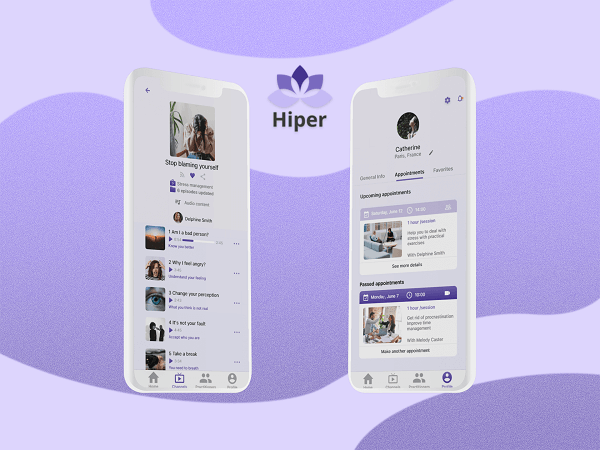
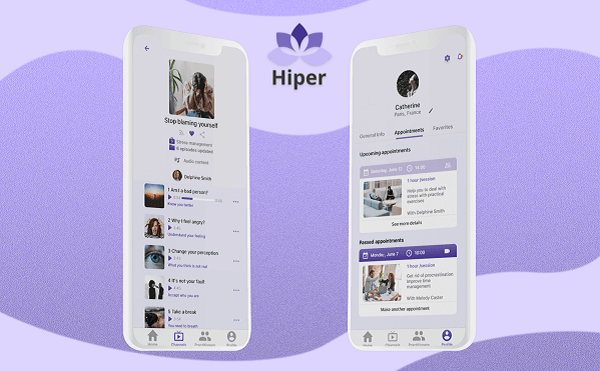
Changed a few photos and the theme color

Changed region(s): [[0.0, 0.0, 1.0, 1.0], [0.39, 0.504, 0.42, 0.5633]]

diff --git a/index.html b/index.html
@@ -97,8 +97,8 @@
           <div class="col-md-6">
             <!-- open first column (used for image) -->
             <picture>
-              <source srcset="img/realestatemate/realEstateMate@1.png" media="(max-width:767px)">
-              <img src="img/realestatemate/realEstateMate@2.png" alt="My Image">
+              <source srcset="img/realestatemate/realEstateMate@1.jpg" media="(max-width:767px)">
+              <img src="img/realestatemate/realEstateMate@2.jpg" alt="My Image">
             </picture>
           </div><!-- end first column -->
           <div class="col-md-6">

diff --git a/realestatemate.html b/realestatemate.html
@@ -49,8 +49,8 @@
     <div class="projects cover">
       <!-- open first column (used for image) -->
       <picture>
-        <source srcset="img/realestatemate/realEstateMate@1.png" media="(max-width:767px)">
-        <img src="img/realestatemate/realEstateMate@2.png" alt="realestatemate Mockup">
+        <source srcset="img/realestatemate/realEstateMate@1.jpg" media="(max-width:767px)">
+        <img src="img/realestatemate/realEstateMate@2.jpg" alt="realestatemate Mockup">
       </picture>
     </div>
     <div class="realEstateMate titles">

diff --git a/css/style.css b/css/style.css
@@ -5,7 +5,7 @@ html {
 }
 
 header {
-  background-color: #CEBDEF;
+  background-color: #FFD8B6;
   margin: 0;
   padding: 0.67em 0;
   position: relative;
@@ -15,7 +15,7 @@ header {
 
 #hero {
   text-align: center;
-  background-color: #CEBDEF;
+  background-color: #FFD8B6;
   padding: 20px 0;
   display: inline-block;
   width: 100%;
@@ -75,7 +75,7 @@ nav>ul>li>a:visited {
   padding: 0 15px;
   text-transform: uppercase;
   font-weight: 700;
-  color: #8C52FF;
+  color: #A45C1D;
 }
 
 body {

diff --git a/hiper.html b/hiper.html
@@ -49,8 +49,8 @@
     <div class="projects cover">
       <!-- open first column (used for image) -->
       <picture>
-        <source srcset="img/hiper/hipermock@1.png" media="(max-width:767px)">
-        <img src="img/hiper/hipermock@2.png" alt="Hiper Mockup">
+        <source srcset="img/hiper/hiper@1.png" media="(max-width:767px)">
+        <img src="img/hiper/hiper@2.png" alt="Hiper Mockup">
       </picture>
     </div>
     <div class="projects titles">
